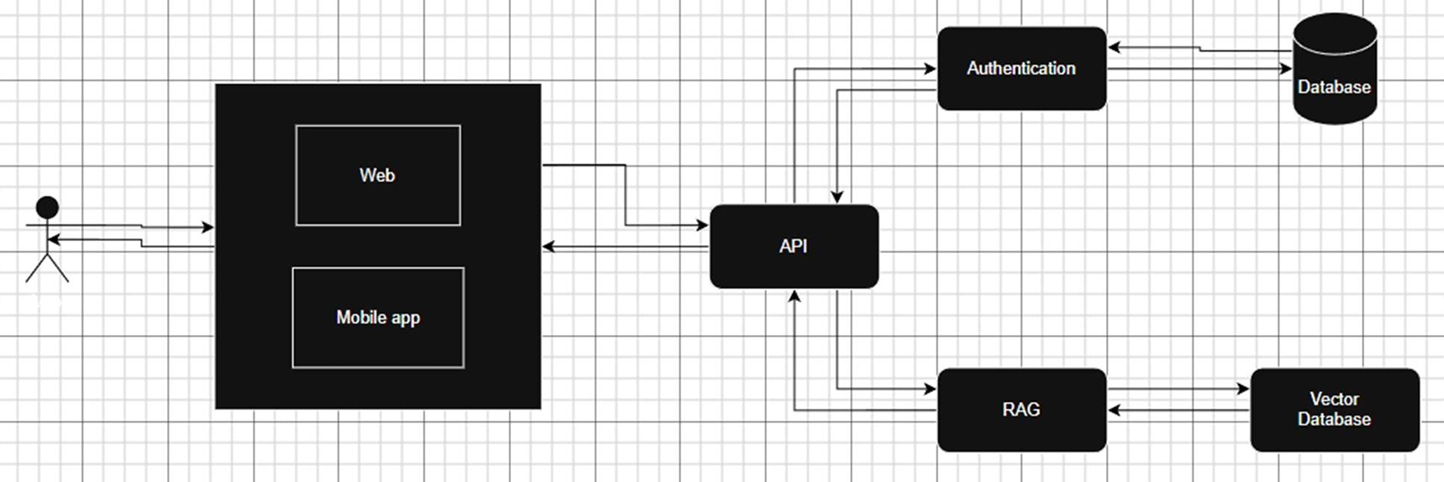
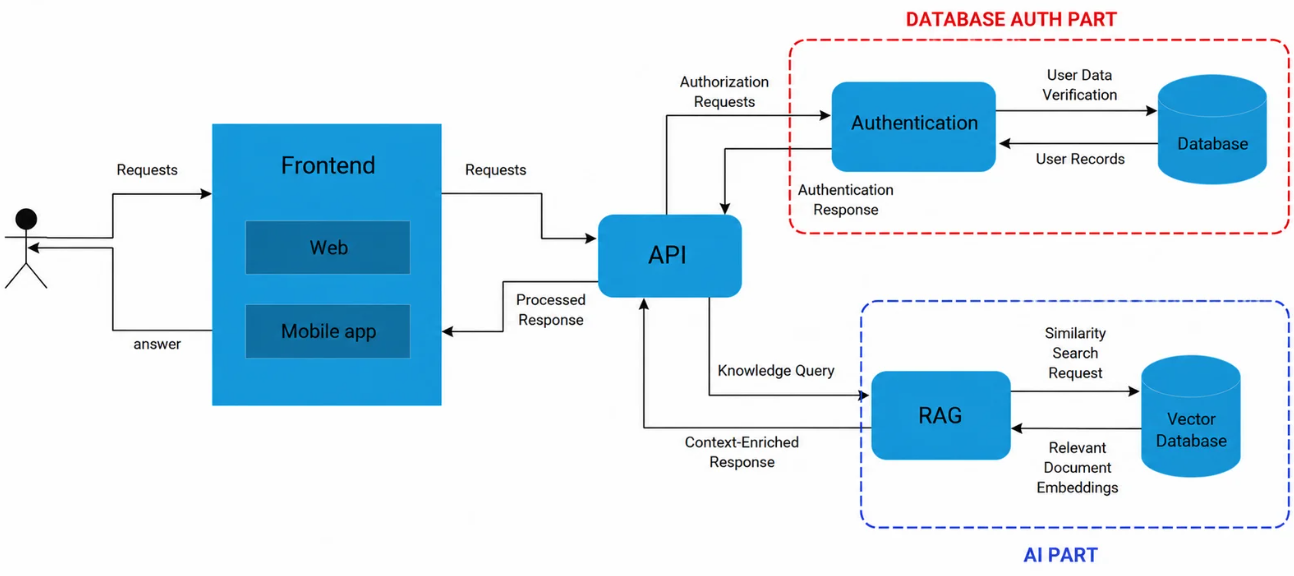
latest docs

diff --git a/DocMind_Documentation/main.tex b/DocMind_Documentation/main.tex
@@ -422,7 +422,13 @@ Finally, we acknowledge the open-source communities behind FastAPI, React, Postg
 \clearpage
 
 % ─── Table of Contents ───────────────────────────────────────────────────────
+% Tighten line height across all TOC entries by zeroing the document's 12pt
+% \parskip for the duration of the TOC (section/subsection entries otherwise
+% inherit it). Scoped in a group so the body spacing is unchanged afterwards.
+\begingroup
+\setlength{\parskip}{0pt}
 \tableofcontents
+\endgroup
 \clearpage
 
 % ─── List of Tables ──────────────────────────────────────────────────────────
@@ -432,8 +438,17 @@ Finally, we acknowledge the open-source communities behind FastAPI, React, Postg
 \clearpage
 
 % ─── List of Figures ─────────────────────────────────────────────────────────
+% Zero \parskip and neutralize the \addvspace{10pt} LaTeX inserts between
+% figures of different chapters, so all entries are tightly spaced. Scoped in
+% a group so body spacing is unchanged afterwards.
 \clearpage
+\begingroup
+\setlength{\parskip}{0pt}
+\let\oldaddvspace\addvspace
+\renewcommand{\addvspace}[1]{}
 \listoffigures
+\let\addvspace\oldaddvspace
+\endgroup
 \addcontentsline{toc}{chapter}{List of Figures}
 \clearpage
 
@@ -556,7 +571,6 @@ This document is organized into five chapters to provide a comprehensive and str
 % ════════════════════════════════════════════════════════════════════════════
 %  CHAPTER 2 — LITERATURE REVIEW
 % ════════════════════════════════════════════════════════════════════════════
-\addtocontents{toc}{\protect\newpage}
 \chapter{Literature Review}
 
 This chapter presents a review of relevant academic research related to artificial intelligence in education, conversational learning systems, and document-grounded AI models. It also provides a market analysis and survey of similar systems currently available. The reviewed papers provide foundational insights that inform the design and implementation of the DocMind system. Rather than merely summarizing prior work, this chapter discusses the implications of each study for the DocMind approach, identifying strengths, limitations, and design decisions that arise from the literature.
@@ -1330,15 +1344,15 @@ Additionally, the system assumes compliance with institutional policies related 
 
 To further evaluate the strategic position of the DocMind system, a Strengths, Weaknesses, Opportunities, and Threats (SWOT) analysis is presented in Figure~\ref{fig:swot}, identifying internal strengths and weaknesses as well as external opportunities and threats.
 
-% ─── SWOT quadrant colors ────────────────────────────────────────────────────
-\definecolor{swotStrengthBg}{HTML}{E3F2E1}
-\definecolor{swotStrengthHd}{HTML}{2E7D32}
-\definecolor{swotWeakBg}{HTML}{FDE7E7}
-\definecolor{swotWeakHd}{HTML}{C62828}
-\definecolor{swotOppBg}{HTML}{E3EEFB}
-\definecolor{swotOppHd}{HTML}{1565C0}
-\definecolor{swotThreatBg}{HTML}{FFF6E0}
-\definecolor{swotThreatHd}{HTML}{EF6C00}
+% ─── SWOT quadrant colors (grayscale) ────────────────────────────────────────
+\definecolor{swotStrengthBg}{HTML}{EDEDED}
+\definecolor{swotStrengthHd}{HTML}{333333}
+\definecolor{swotWeakBg}{HTML}{E0E0E0}
+\definecolor{swotWeakHd}{HTML}{333333}
+\definecolor{swotOppBg}{HTML}{EDEDED}
+\definecolor{swotOppHd}{HTML}{333333}
+\definecolor{swotThreatBg}{HTML}{E0E0E0}
+\definecolor{swotThreatHd}{HTML}{333333}
 
 % ─── One reusable quadrant cell: {header color}{bg color}{title}{bullets} ─────
 \newcommand{\swotcell}[4]{%
@@ -1563,7 +1577,6 @@ The system is also constrained by computational resources, particularly those re
 Additionally, the effectiveness of the system is limited by the quality and completeness of the uploaded academic materials. Incomplete or inaccurate documents may reduce response quality.
 
 \newpage
-\addtocontents{toc}{\protect\newpage}
 \section{System Design}
 
 This section presents the detailed technical design of the DocMind system. It translates the requirements defined above into concrete architectural, structural, and interaction-level design decisions.
@@ -1765,7 +1778,6 @@ This structured system design provides a solid foundation for implementation, te
 % ════════════════════════════════════════════════════════════════════════════
 %  CHAPTER 4 — IMPLEMENTATION AND TESTING
 % ════════════════════════════════════════════════════════════════════════════
-\addtocontents{toc}{\protect\newpage}
 \chapter{Implementation and Testing}
 
 This chapter describes the working implementation in the DocMind repository: a full-stack prototype comprising a FastAPI backend, PostgreSQL schema with Alembic migrations, optional pgvector or Qdrant for embeddings, and a React frontend. It demonstrates how the concepts, requirements, and design decisions from Chapter 3 are realized in code and in the running application.
@@ -2072,8 +2084,6 @@ The market survey revealed that while commercial tools such as NotebookLM [17], 
 \newpage
 
 In conclusion, DocMind demonstrates that it is possible to build an academically responsible AI assistant that is reliable, role-aware, and deployable within university infrastructure using accessible open-source technologies. The system represents a meaningful contribution to the intersection of artificial intelligence and higher education, providing a foundation that can be extended, hardened for production, and adopted by institutions seeking to improve student learning outcomes without compromising academic integrity.
-
-\newpage
 
 \section{Future Work}
 
